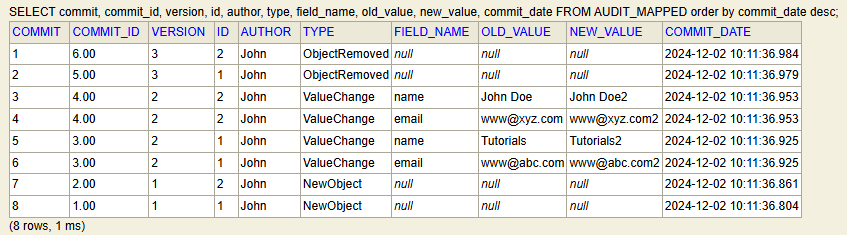
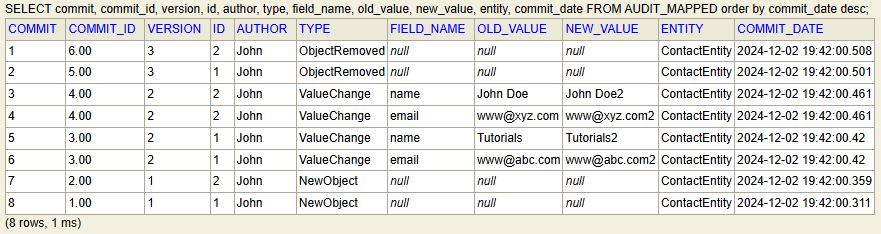
ok

diff --git a/src/main/java/com/example/userregistration/controller/AuditController.java b/src/main/java/com/example/userregistration/controller/AuditController.java
@@ -269,7 +269,7 @@ public class AuditController {
                         .id(Integer.valueOf(j.getAffectedLocalId().toString()))
                         .author(commitMetadata.getAuthor())
                         .type(type)
-                        .entityName(entityName)
+                        .entity(entityName)
                         .version(version)
                         .build();
 
@@ -294,7 +294,7 @@ public class AuditController {
         table.addRule();
         table.addRow("commit", "id", "commitId", "commitDate",
                 "version", "author", "type",
-                "fieldName", "oldValue", "newValue");
+                "fieldName", "oldValue", "newValue", "entity");
         table.addRule();
 
         // Add rows to the table
@@ -309,7 +309,8 @@ public class AuditController {
                     record.getType() != null ? record.getType() : "",
                     record.getFieldName() != null ? record.getFieldName() : "",
                     record.getOldValue() != null ? record.getOldValue() : "",
-                    record.getNewValue() != null ? record.getNewValue() : ""
+                    record.getNewValue() != null ? record.getNewValue() : "",
+                    record.getEntity() != null ? record.getEntity() : ""
             );
             table.addRule();
         }

diff --git a/src/main/java/com/example/userregistration/entity/AuditMapped.java b/src/main/java/com/example/userregistration/entity/AuditMapped.java
@@ -31,6 +31,6 @@ public class AuditMapped {
     private String fieldName;
     private String oldValue;
     private String newValue;
-    private String entityName;
+    private String entity;
 
 }

diff --git a/README.md b/README.md
@@ -42,7 +42,7 @@ There will be preloaded data, so you can access the audit right away
 ## NEW - added table for custom audit mapping
 Run the endpoint `/audit/contactsPretty` first, and it will save for you your custom audit mapping.
 
-    SELECT commit, commit_id, version, id, author, type, field_name, old_value, new_value, commit_date FROM AUDIT_MAPPED order by commit_date desc
+    SELECT commit, commit_id, version, id, author, type, field_name, old_value, new_value, entity, commit_date FROM AUDIT_MAPPED order by commit_date desc
 
 ## Image samples
 
